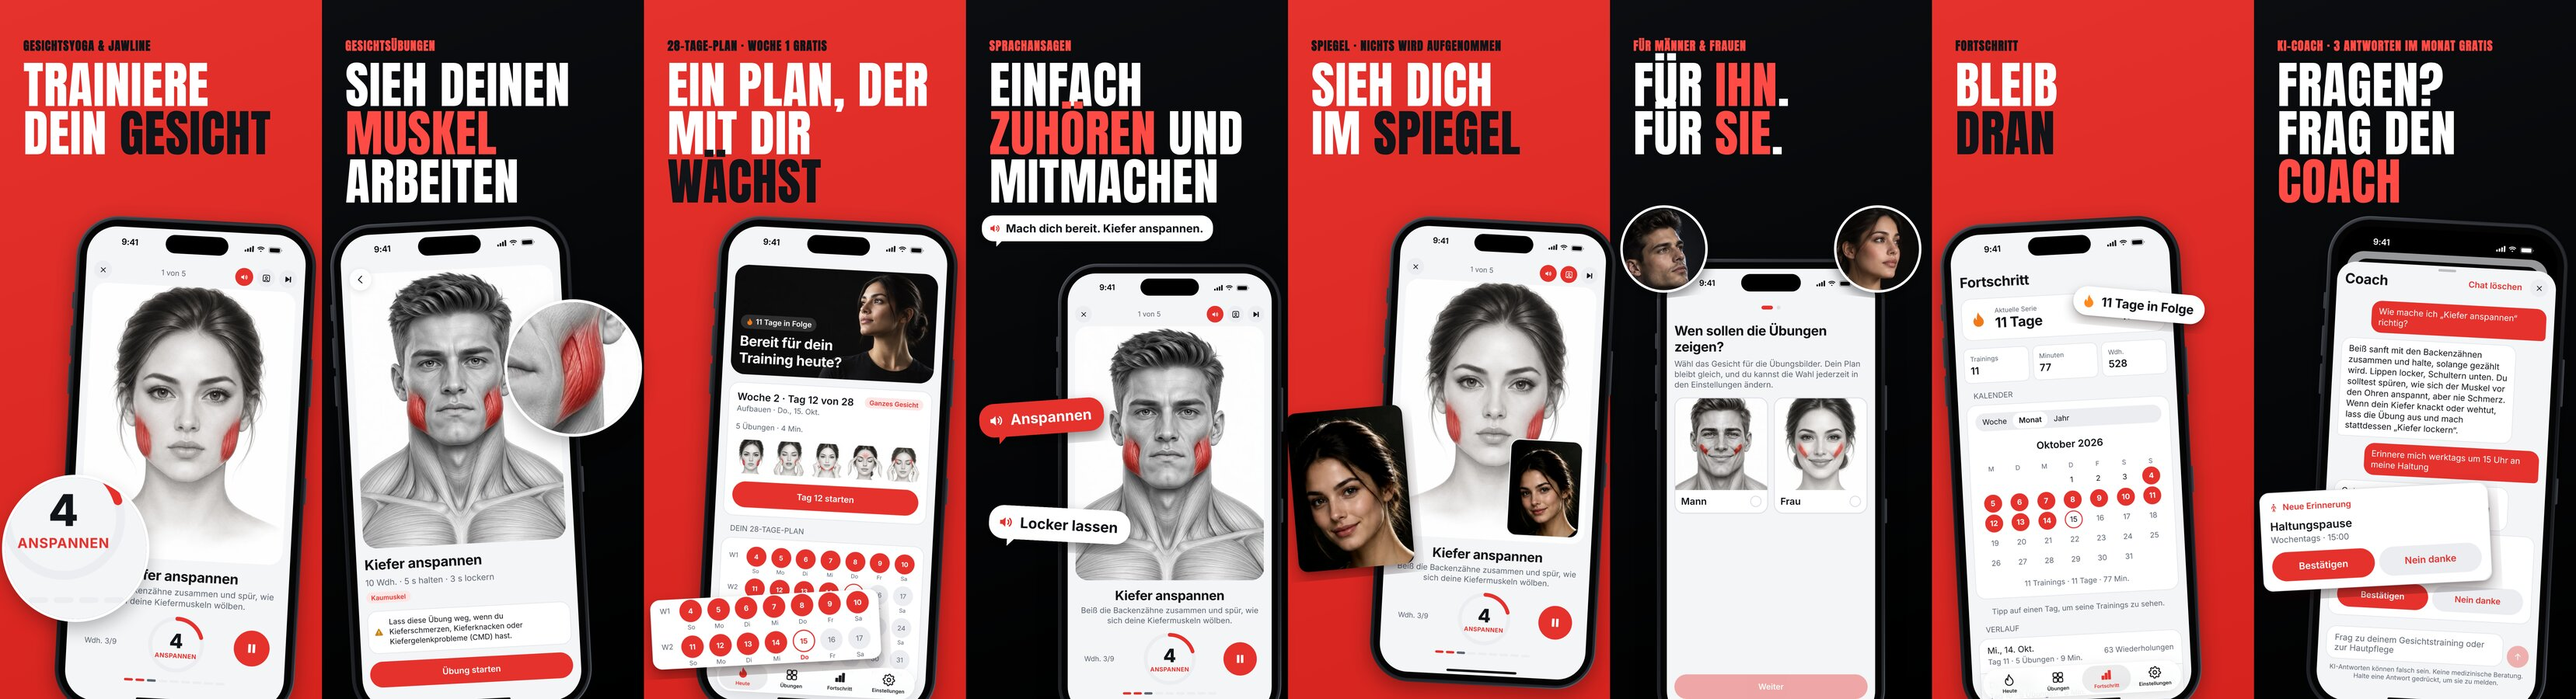
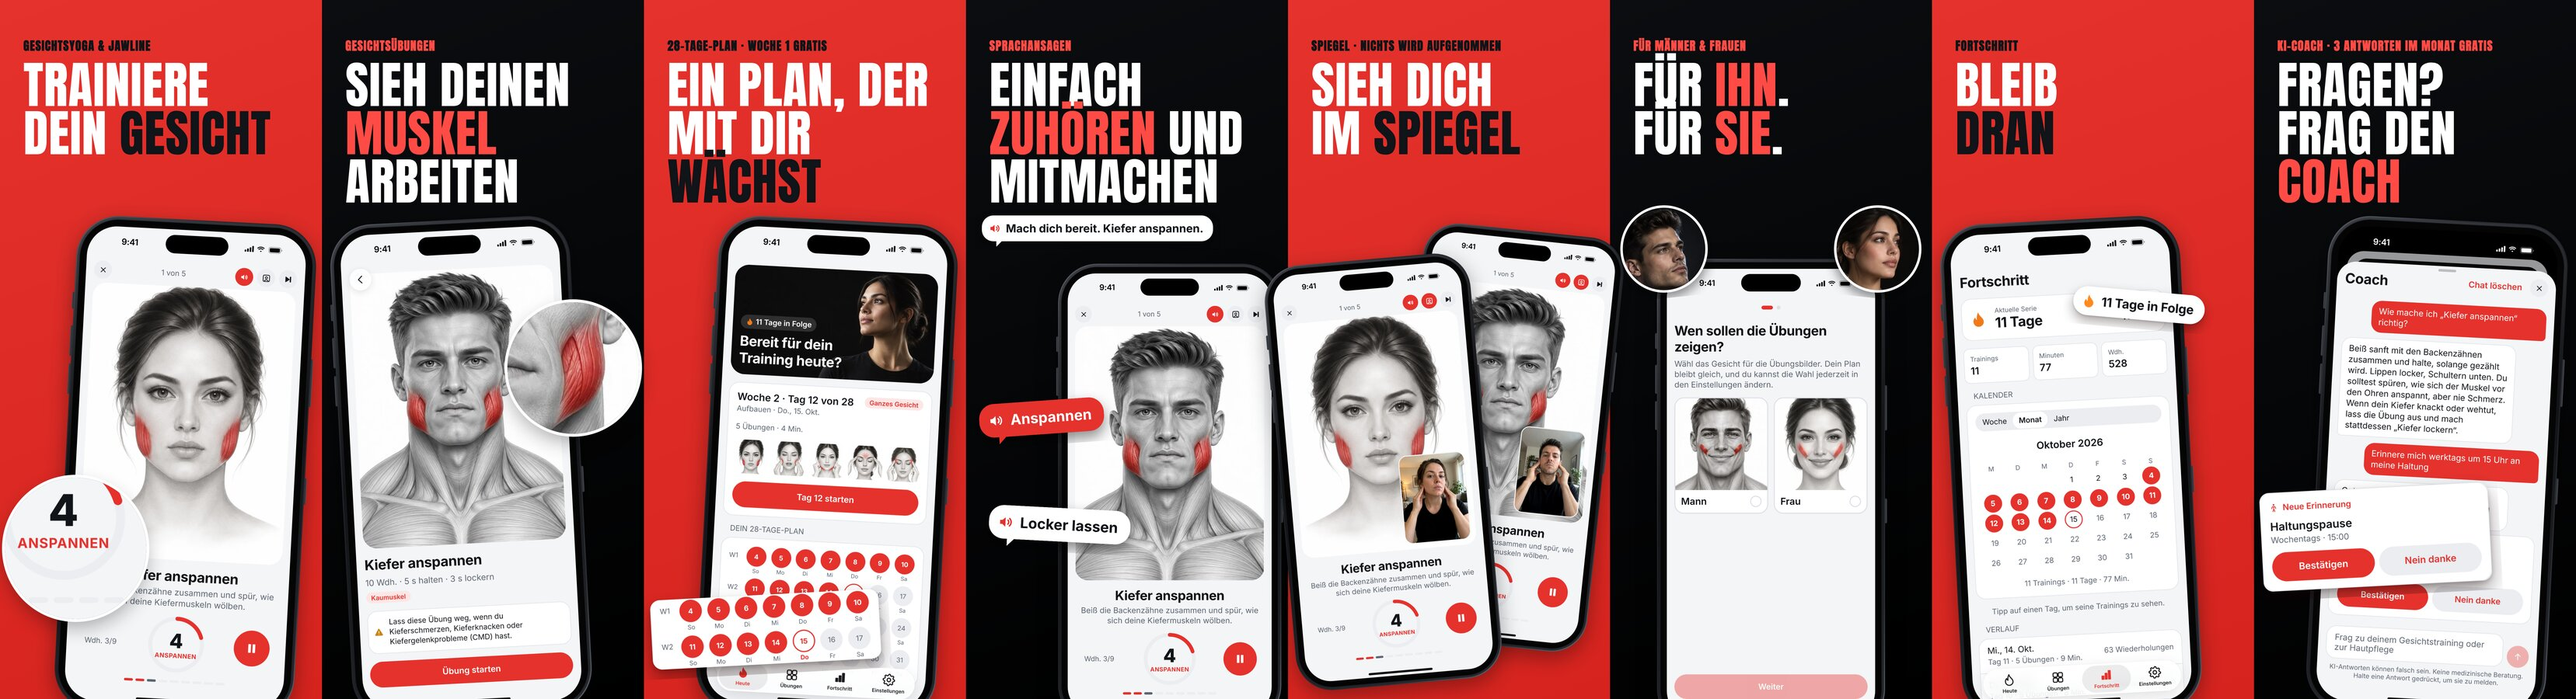
Screenshots: the mirror slide shows both (her and his front camera), all six languages
- Slide 5 "Check your form in the mirror": two workout players with the camera mirror on, her phone in
  front and his behind, both front-camera pictures (generated) visible. MIRROR=both is now the default.
- Captured and exported for en, es, pt-BR, de, fr and it (export/<lang>/01-08.jpg).
- README and docs/launch.md describe the two-person mirror slide and the camera pictures.

Claude-Session: https://claude.ai/code/session_01EBipzZcuqeqBDcYK7JrH5b

Changed region(s): [[0.4662, 0.3111, 0.6527, 1.0]]

diff --git a/store-screenshots/capture/deck.js b/store-screenshots/capture/deck.js
@@ -11,7 +11,7 @@ import { COPY, LANGS } from './copy.js';
 const HERE = path.dirname(fileURLToPath(import.meta.url));
 const ART = JSON.parse(fs.readFileSync(path.join(HERE, 'art-manifest.json'), 'utf8'));
 const PHONE = 1022 / 2082; // mockup.png aspect
-const MIRROR = process.env.MIRROR || 'woman'; // who is in the camera mirror slide: woman, man or both
+const MIRROR = process.env.MIRROR || 'both'; // who is in the camera mirror slide: woman, man or both (the owner picked both)
 
 const text = (i, part) => Object.fromEntries(LANGS.map((l) => [l, COPY[l].slides[i][part]]));
 const phone = (x, y, width, rotation = 0) => ({ x, y, width, height: Math.round(width / PHONE), rotation, zIndex: 3 });

diff --git a/store-screenshots/README.md b/store-screenshots/README.md
@@ -12,7 +12,7 @@ language's set side by side).
 | 2 | See the *muscle* you train | Jaw Clench page (man pictures); the masseter magnified |
 | 3 | A plan that *grows* with you · "Week 1 free" | Today, Week 2 · Day 12 of 28; weeks 1–2 of the grid lifted out |
 | 4 | Just *listen* and follow | Workout player (man) with the voice cues as speech bubbles |
-| 5 | Check your form in the *mirror* · "Nothing recorded" | Workout player with the camera mirror on; the camera picture lifted out |
+| 5 | Check your form in the *mirror* · "Nothing recorded" | Two workout players with the camera mirror on: hers in front, his behind |
 | 6 | For *him*. For *her*. | "Who should the exercises show?" with both portraits |
 | 7 | Keep your *streak* going | Progress: 11-day streak, October calendar |
 | 8 | Questions? Ask the *Coach* · "3 free answers a month" | The Coach: a technique answer and the reminder card it prepared |
@@ -25,8 +25,8 @@ capture/
   seed.js      demo data: Thu 15 Oct 2026 9:41, Days 1–11 of the plan done (11-day streak), Premium on
   lib.js       opens the web build like the iPhone app (font, SF Symbol look-alikes, demo database, Premium,
                the Coach and /plan answered locally: no Worker, no AI, no RevenueCat)
-  capture.js   films the screens → capture/raw/<lang>/ (the mirror's camera is a still of the woman from the
-               app's welcome photo, played by Chromium as a fake camera)
+  capture.js   films the screens → capture/raw/<lang>/ (the mirror's camera: camera/<woman|man>-jaw-clench.jpg,
+               AI-generated front-camera pictures, played by Chromium as a fake camera)
   frame.js     adds the iPhone parts (9:41 status bar, Dynamic Island, iOS 26 tab bar, back button, Coach sheet,
                home bar) → public/screenshots/apple/iphone/<lang>/
   art.js       portraits (the app's own hero photos) and the per-language chips and voice bubbles → public/art/
@@ -70,7 +70,9 @@ few full slides before uploading.
 - Plain words, one idea per slide. No health or result claims, no before/after, no "#1", no prices, no other apps.
 - Slides with Premium content say what is free (App Store 2.3.2): slide 3 "Week 1 free", slide 8 "3 free answers a
   month". Keep that if those slides change.
-- Demo data only. The people are the app's AI-generated pictures (fictional), also in the camera mirror.
+- Demo data only. The people are AI-generated and fictional: the app's pictures, and in the camera mirror two
+  front-camera pictures made with Figma AI (`capture/camera/`). `MIRROR=woman|man|both node deck.js` picks who is on
+  slide 5 (both by default).
 - `LANGS=en node …` runs any step for one language (a quick sample) without touching the others.
 - The first three slides show in search results: their labels carry each language's search words.
 

diff --git a/docs/launch.md b/docs/launch.md
@@ -102,7 +102,7 @@ Alternative (Facewerk): `Facewerk: Face Workout for Men` / `Jawline, Mewing & Ch
   Red and black slides, Anton headlines with one highlighted word, tilted iPhones, magnified details, voice bubbles.
   Order: (1) Train your face like your body (player, mid-squeeze) · (2) See the muscle you train (masseter) ·
   (3) A plan that grows with you, "Week 1 free" · (4) Just listen and follow (voice cues) · (5) Check your form in
-  the mirror (camera mirror, "Nothing recorded") · (6) For him. For her. · (7) Keep your streak going ·
+  the mirror (her and his camera mirror, "Nothing recorded") · (6) For him. For her. · (7) Keep your streak going ·
   (8) Ask the Coach, "3 free answers a month".
 - App Store Connect needs only the 6.9" set (it scales it down); up to 10 screenshots, the first 3 show in search.
 - App Preview: 15–30 s, in-app footage only, muted autoplay. Open with the relaxed→squeeze glow in the first 2 seconds. No before/after faces.
